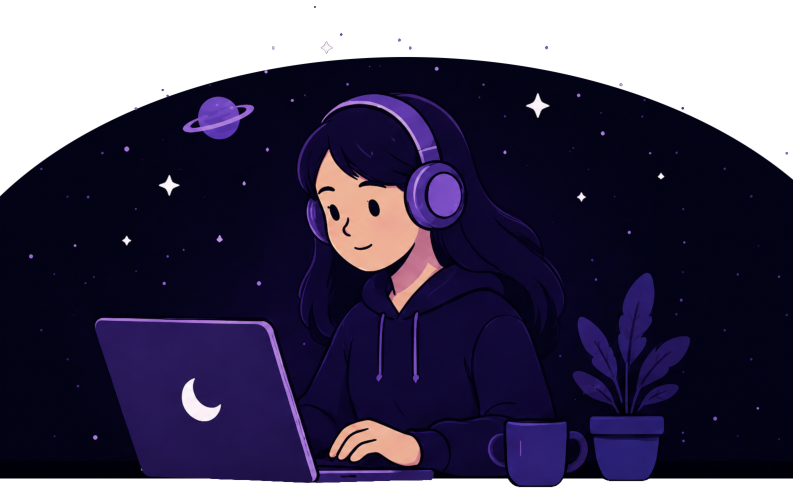
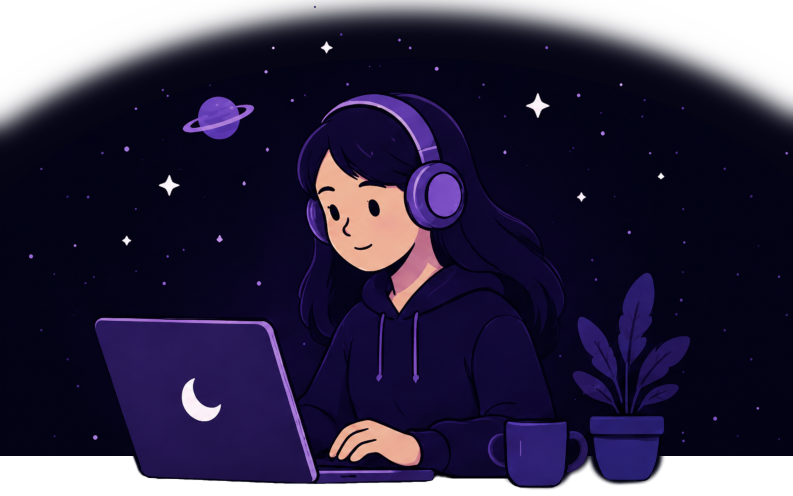
Design Changes
* increased bottom alpha on avatar picture.
* optimized layout to look more smoth.
* small optimizations in code readability.

diff --git a/src/css/project-cards.css b/src/css/project-cards.css
@@ -1,20 +1,10 @@
 :root {
-    --default-bgColor-0: #050412;
-    --default-bgColor-1: #0a0a1d;
-    --default-bgColor-2: #1c1939;
-    --default-bgColor-3: #1e1b4b;
-    --default-color-0: #bcb9cecf;
-    --default-color-1: #cfc1d6;
-    --default-color-2: #cd8af4;
-    --default-color-3: #7e41c8;
-
-    --default-paddingTop: 12px;
-    --default-paddingLeft: 12px;
-
-    --pcard-preview-paddingLeft: 8px;
-
+    --default-paddingY: 12px;
+    --default-paddingX: 12px;
     --pcard-default-font-size: 16px;
-    --pcard-default-line-height: 1.3;
+    --pcard-default-line-height: 1.5;    
+    --pcard-default-mobile-font-size: 13px;
+    --pcard-default-mobile-line-height: 1.2;
 }
 
 .project-scroll {
@@ -40,7 +30,7 @@
 }
 
 .card-project .project-name {
-    padding: var(--default-paddingTop) 0px;
+    padding: var(--default-paddingY) 0px;
 }
 
 .card-project .card-body {
@@ -48,34 +38,23 @@
     padding: 0px;
 }
 
-.card-project .description-wrapper {
-    display: flex;
-    align-items: center;
-    justify-content: center;
-    height: calc(var(--pcard-default-font-size) * var(--pcard-default-line-height) * 5);
-}
-
 .card-project .project-description {
     display: -webkit-box;
     -webkit-box-orient: vertical;
-    -webkit-line-clamp: 4;
+    -webkit-line-clamp: 5;
 
     overflow: hidden;
 
-    font-size: var(--pcard-default-font-size);
-    line-height: var(--pcard-default-line-height);
+    font-size: var(--pcard-default-mobile-font-size);
+    line-height: var(--pcard-default-mobile-line-height);
 
     text-align: center;
-
-    margin: 0;
+    margin: 6px;
 }
 
 .tool-badge-wrapper {
-    display: flex;
-    justify-content: center;
-    align-items: center;
     height: 48px;
-    margin: var(--default-paddingTop) 0px;
+    margin: var(--default-paddingY) 0px;
 }
 .project-tools {
     max-height: 48px;
@@ -105,7 +84,7 @@
     font-size: 12px;
     font-weight: bold;
     line-height: 1;
-    margin-bottom: var(--default-paddingTop);
+    margin-bottom: var(--default-paddingY);
 }
 
 /* Responsive */
@@ -127,24 +106,14 @@
         width: 100%;
         height: 100%;
         object-fit: cover;
-        /* display: block; */
-    }    
-
-    .card-project .project-description {
-        text-align: start;
-        margin: var(--default-paddingTop) var(--default-paddingLeft);
     }
 
-    
-
-/* .project-tools {
-    max-height: 44px;
-    display: flex;
-    flex-wrap: wrap;
-    justify-content: center;
-    gap: 8px;
-    overflow: hidden;
-}  */
+    .card-project .project-description {
+        font-size: var(--pcard-default-font-size);
+        line-height: var(--pcard-default-line-height);
+        text-align: start;
+        margin: var(--default-paddingY) var(--default-paddingX);
+    }
 
     .tool-badge-wrapper {
         height: 56px;
@@ -160,17 +129,8 @@
         padding: 10px;
         margin: 0px;
     }
-    
-    /* .card-project .project-progress {
-        overflow: hidden;
-        margin: var(--default-paddingTop) var(--default-paddingLeft);
-        height: 40px;
-    } */
 
     .card-project .project-company {
-        display: flex;
-        align-items: center;
-        justify-content: center;
         overflow: hidden;
         height: 30px;
         font-size: 18px;

diff --git a/src/js/services/loaders/projects.js b/src/js/services/loaders/projects.js
@@ -11,7 +11,7 @@ class ProjectCard {
 
     getHtml(project) {
         return `            
-            <div class="card-project flex-shrink-0 rounded-3">
+            <div class="card-project d-flex flex-column flex-shrink-0 rounded-3">
                         
                 <div class="card-header">
                     <div class="project-name text-truncate">
@@ -20,8 +20,8 @@ class ProjectCard {
                 </div>
 
                 <div class="card-body">
-                    <div class="container-fluid g-0">
-                        <div class="row g-0">
+                    <div class="container-fluid g-0 h-100">
+                        <div class="row g-0 h-100">
 
                             ${this.project.preview ? `
                             <div class="col-md-4 d-none d-md-block">
@@ -32,7 +32,7 @@ class ProjectCard {
                             `: ""}
 
                             <div class="col g-0">
-                                <div class="description-wrapper">
+                                <div class="description-wrapper d-flex justify-content-center align-items-center h-100">
                                     <p class="project-description">
                                         ${this.project.description ? this.project.description : "No description available"}
                                     </p>
@@ -47,7 +47,7 @@ class ProjectCard {
                 <div class="card-footer">
 
                     <!-- Tool Badges -->
-                    <div class="tool-badge-wrapper">
+                    <div class="tool-badge-wrapper  d-flex justify-content-center align-items-center">
                         <div class="project-tools">
                             ${this.project.tools ?
                                 this.project.tools.map(tool => `

diff --git a/src/css/styles.css b/src/css/styles.css
@@ -125,7 +125,7 @@ a {
 }
 
 .avatar-img {
-    /* transform: translateY(15px); */
+    transform: translateY(16px);
     z-index: 1;
     height: 100%;
     width: 100%;
@@ -231,7 +231,7 @@ a:hover .card-purple {
         position: absolute;
         right: 0;
         bottom: 0px;
-        transform: translateY(36px);
+        transform: translateY(45px);
         width: auto;
         max-height: 500px;
         z-index: 1;
